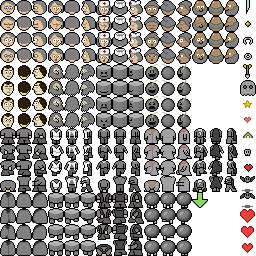
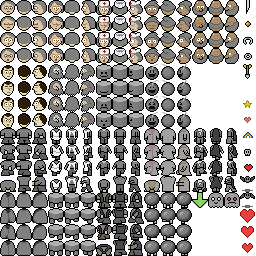
Ghosts smile or frown depending on lethality.

Changed region(s): [[0.8125, 0.75, 0.9375, 0.8125], [0.9375, 0.3125, 1.0, 0.375]]

diff --git a/src/main/ps_main.c b/src/main/ps_main.c
@@ -52,12 +52,12 @@ static struct ps_perfmon *ps_perfmon=0;
 static int ps_setup_test_game(struct ps_userconfig *userconfig) {
   int i;
 
-  if (1) { // Normal interactive setup.
+  if (0) { // Normal interactive setup.
     return 0;
   }
 
   /* Configure players. */
-  if (ps_game_set_player_count(ps_game,1)<0) return -1;
+  if (ps_game_set_player_count(ps_game,2)<0) return -1;
   for (i=1;i<=PS_PLAYER_LIMIT;i++) {
     ps_game_configure_player(ps_game,i,i,i,0);
   }
@@ -65,8 +65,8 @@ static int ps_setup_test_game(struct ps_userconfig *userconfig) {
 
   /* Optionally override plrdef selection. (plrid,plrdefid,palette,device) */
   //001-swordsman 002-archer    003-gadgeteer 004-nurse     005-wizard    006-vampire   007-martyr    008-immortal  009-bomber
-  if (ps_game_configure_player(ps_game,1,5,1,0)<0) return -1;
-  //if (ps_game_configure_player(ps_game,2,1,0,0)<0) return -1;
+  if (ps_game_configure_player(ps_game,1,2,1,0)<0) return -1;
+  if (ps_game_configure_player(ps_game,2,2,0,0)<0) return -1;
   //if (ps_game_configure_player(ps_game,3,8,1,0)<0) return -1;
   //if (ps_game_configure_player(ps_game,4,2,2,0)<0) return -1;
 
@@ -76,6 +76,8 @@ static int ps_setup_test_game(struct ps_userconfig *userconfig) {
     if (ps_game_generate(ps_game)<0) return -1;
 
   } else { // Generate a test scenario -- good for blueprint test drives.
+    if (ps_game_set_difficulty(ps_game,2)<0) return -1;
+    if (ps_game_set_length(ps_game,    2)<0) return -1;
     if (ps_game_generate_test(ps_game,
       -1, // regionid, negative means random
       // blueprintid. At least one must have adequate HERO POI:

diff --git a/src/game/sprites/ps_sprite_hero_state.c b/src/game/sprites/ps_sprite_hero_state.c
@@ -39,7 +39,6 @@ static int ps_hero_react_to_changed_state(struct ps_sprite *spr,struct ps_game *
   /* Ghosts have a decidedly different profile from the living. */
   } else if (SPR->state&PS_HERO_STATE_GHOST) {
     grpmask|=
-      ((game->difficulty>=PS_GHOST_HAZARD_DIFFICULTY)?(1<<PS_SPRGRP_HEROHAZARD):0)|
       (1<<PS_SPRGRP_PHYSICS)|
     0;
     spr->impassable=
@@ -50,6 +49,12 @@ static int ps_hero_react_to_changed_state(struct ps_sprite *spr,struct ps_game *
     if (SPR->state&PS_HERO_STATE_FERRY) {
       if (ps_sprite_release_from_master(spr,game)<0) return -1;
       SPR->state&=~PS_HERO_STATE_FERRY;
+    }
+    if (game->difficulty>=PS_GHOST_HAZARD_DIFFICULTY) {
+      grpmask|=(1<<PS_SPRGRP_HEROHAZARD);
+      SPR->lethal=1;
+    } else {
+      SPR->lethal=0;
     }
 
   /* Onscreen and alive. */

diff --git a/src/game/sprites/ps_sprite_hero.c b/src/game/sprites/ps_sprite_hero.c
@@ -365,7 +365,7 @@ static int ps_hero_draw_ghost(struct akgl_vtx_maxtile *vtxv,int vtxa,struct ps_s
   vtxv->x=spr->x;
   vtxv->y=spr->y;
   vtxv->size=PS_TILESIZE;
-  vtxv->tileid=0x5f;
+  vtxv->tileid=SPR->lethal?0xce:0xcd;
   vtxv->ta=0;
   
   uint32_t rgba=0x808080ff;

diff --git a/src/game/sprites/ps_sprite_hero.h b/src/game/sprites/ps_sprite_hero.h
@@ -55,6 +55,7 @@ struct ps_sprite_hero {
    * It's fine to read state directly but modify it ony with the provided accessors.
    */
   uint32_t state;
+  int lethal; // Only relevant in PS_HERO_STATE_GHOST. Am I in PS_SPRGRP_HEROHAZARD?
   
 };
 
